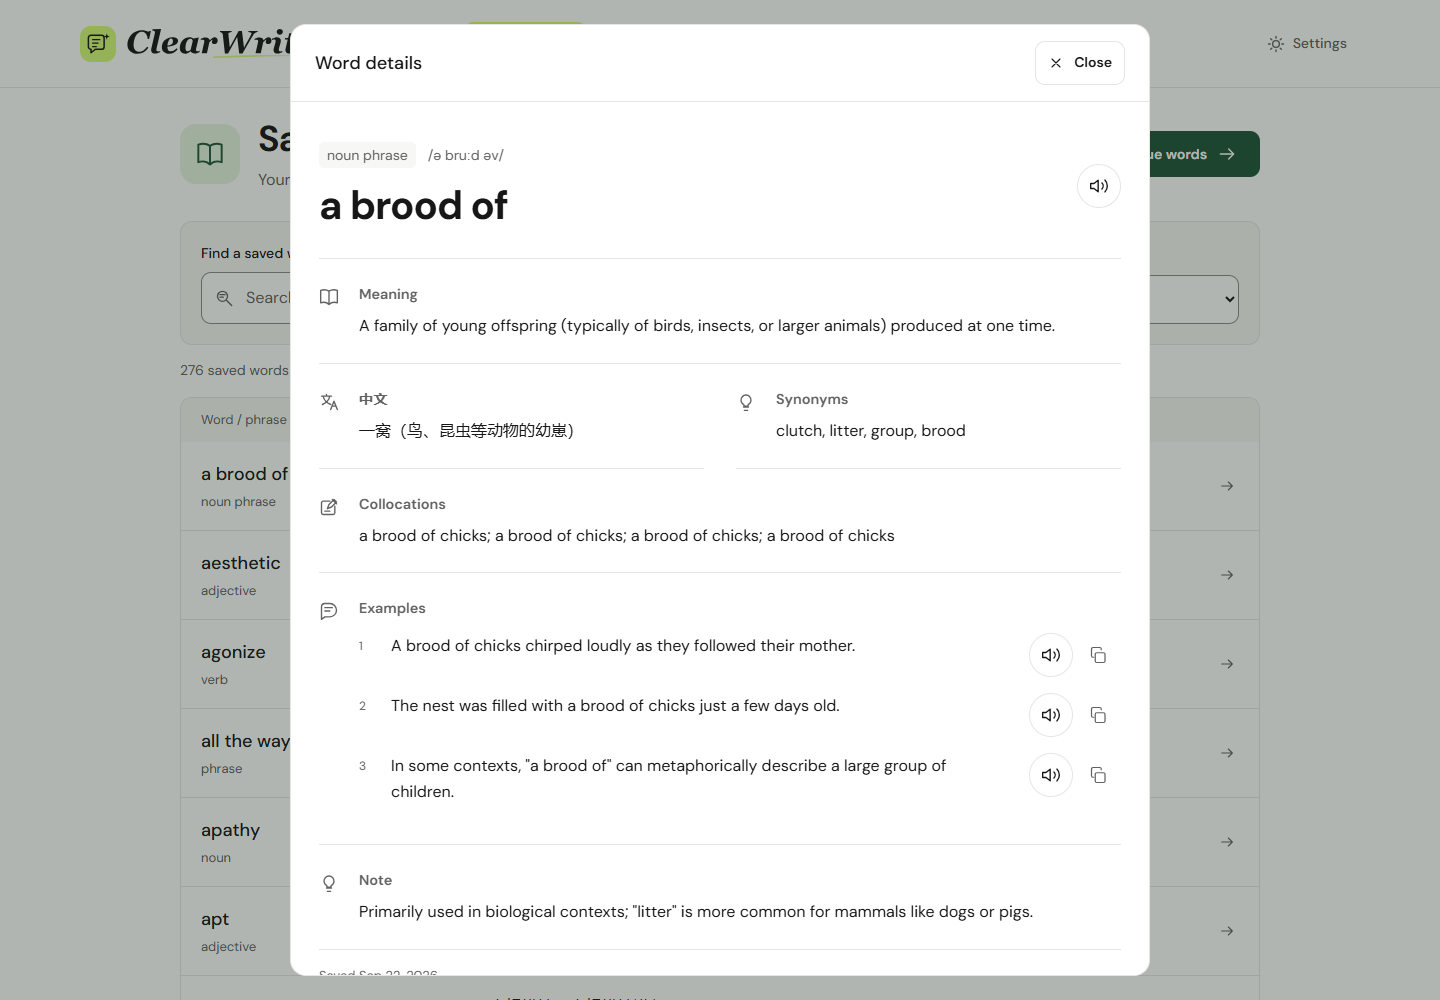
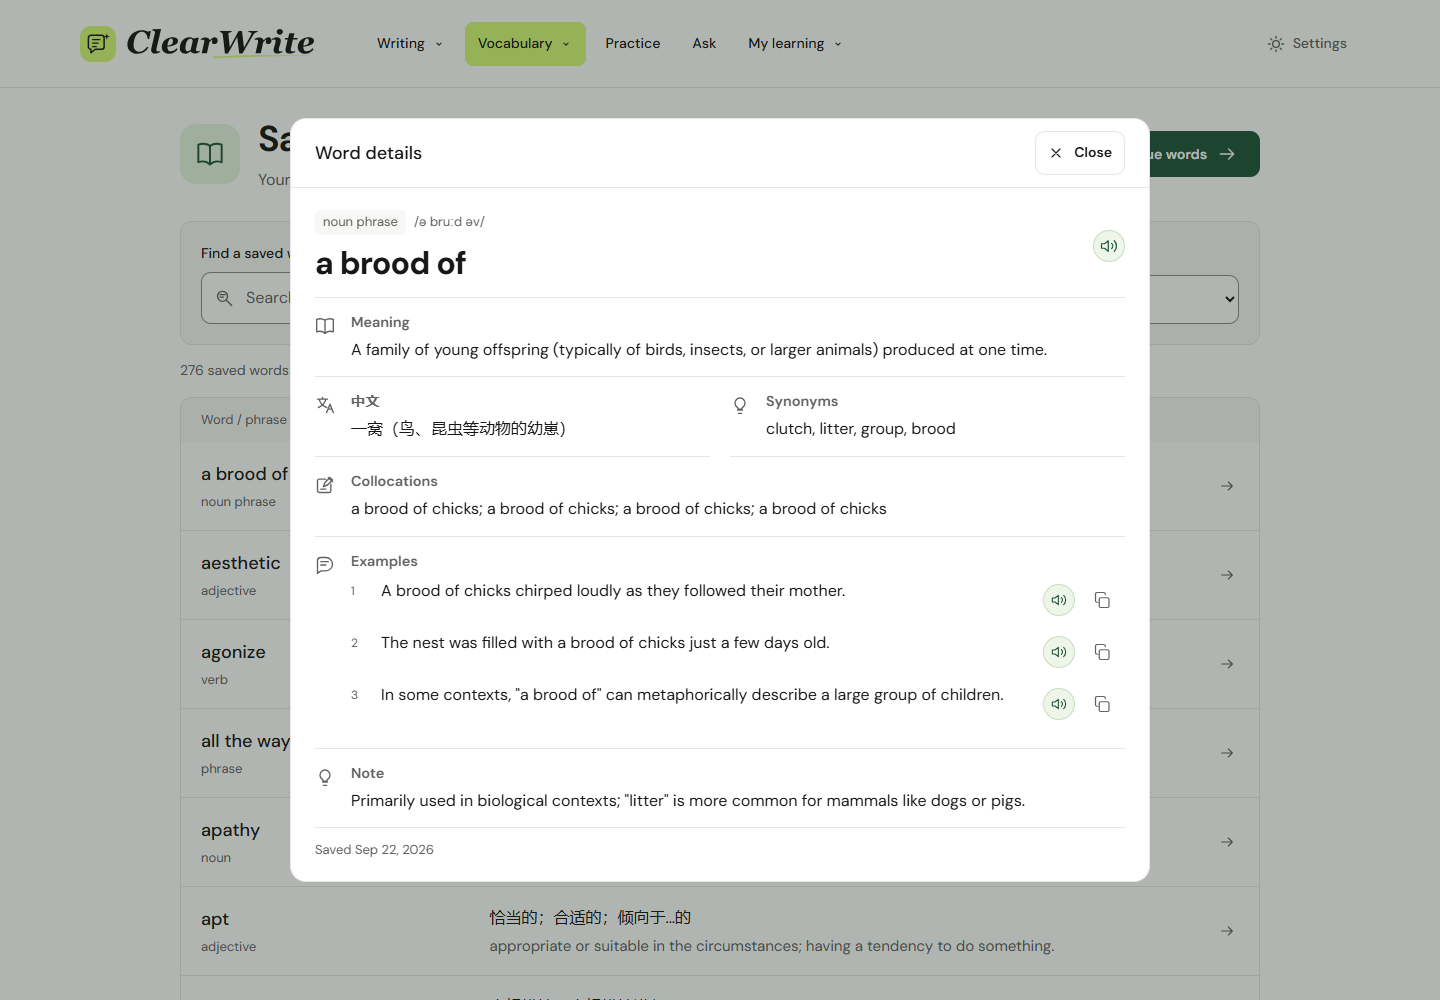
fix(vocabulary): polish saved-word details layout and audio states

diff --git a/apps/web/src/VocabularyLibrary.css b/apps/web/src/VocabularyLibrary.css
@@ -31,18 +31,34 @@
 .saved-word-dialog { width: min(860px, calc(100% - 48px)); max-width: none; max-height: calc(100dvh - 48px); margin: auto; padding: 0; border: 1px solid var(--line); border-radius: 16px; background: var(--paper); color: var(--ink); }
 .saved-word-dialog[open] { display: flex; flex-direction: column; }
 .saved-word-dialog::backdrop { background: rgb(23 35 27 / 34%); }
-.saved-word-dialog-header { display: flex; align-items: center; justify-content: space-between; gap: 16px; flex-shrink: 0; padding: 16px 24px; border-bottom: 1px solid var(--line); }
+.saved-word-dialog-header { display: flex; align-items: center; justify-content: space-between; gap: 16px; flex-shrink: 0; padding: 12px 24px; border-bottom: 1px solid var(--line); }
 .saved-word-dialog-header h2 { margin: 0; font-size: 1.125rem; font-weight: 500; }
 .saved-word-dialog-header .secondary { padding: 8px 12px; min-height: 44px; }
 .saved-word-dialog-header .icon { width: 16px; height: 16px; }
-.saved-word-details { min-height: 0; padding: 24px 28px; overflow-y: auto; overscroll-behavior: contain; }
+.saved-word-details { min-height: 0; padding: 20px 24px; overflow-y: auto; overscroll-behavior: contain; }
 .saved-word-dialog :focus-visible { outline: 2px solid #205539; outline-offset: 3px; }
 .saved-word-details .word-details { margin: 0; }
-.saved-word-details .word-heading { margin-top: 0; }
-.saved-word-memory { border-top: 1px solid var(--line); padding-top: 16px; }
-.saved-word-memory h4 { margin-bottom: 8px; }
+.saved-word-details .word-heading { gap: 16px; padding: 2px 0 14px; margin-top: 0; }
+.saved-word-details .word-heading h3 { font-size: 32px; margin-top: 8px; }
+.saved-word-details .word-heading-meta { gap: 8px; font-size: 13px; }
+.saved-word-details .word-detail-block { gap: 12px; padding: 14px 0; }
+.saved-word-details .word-detail-block h4 { margin: 1px 0 6px; }
+.saved-word-details .word-detail-pair { gap: 20px; }
+.saved-word-details .word-examples li { gap: 10px; margin: 8px 0; }
+/* Compact pronunciation controls keep the focus on the word content. */
+.saved-word-details .audio-btn { width: 32px; height: 32px; min-height: 32px; border: 1px solid #c8dcc0; background: #edf6e9; color: #205539; }
+.saved-word-details .audio-btn:hover:not(:disabled) { border-color: #9bbc8f; background: #dfeeda; }
+.saved-word-details .audio-btn:active:not(:disabled) { background: #d1e5c8; }
+.saved-word-details .audio-btn[aria-busy="true"] { border-color: #205539; background: #205539; color: var(--paper); cursor: progress; }
+.saved-word-details .audio-btn.audio-err { border-color: var(--danger); color: var(--danger); background: #fbefec; }
+.saved-word-details .audio-btn .icon { width: 16px; height: 16px; }
+.saved-word-details .word-heading .audio-btn .icon { width: 18px; height: 18px; }
+.saved-word-details .word-heading > div { min-width: 0; }
+.saved-word-details .example-controls { align-items: center; gap: 6px; }
+.saved-word-memory { border-top: 1px solid var(--line); padding-top: 12px; }
+.saved-word-memory h4 { margin-bottom: 6px; }
 .saved-word-memory p { margin-bottom: 0; }
-.saved-word-date { margin: 16px 0 0; color: var(--muted); font-size: .8125rem; }
+.saved-word-date { margin: 12px 0 0; color: var(--muted); font-size: .8125rem; }
 .vocabulary-library-pagination { display: flex; align-items: center; justify-content: space-between; gap: 16px; margin-top: 20px; color: var(--muted); font-size: .875rem; }
 .vocabulary-library-pagination > div { display: flex; align-items: center; flex-wrap: wrap; gap: 12px; }
 .vocabulary-library-pagination .secondary { margin: 0; padding: 8px 14px; min-height: 44px; }

diff --git a/apps/web/src/App.tsx b/apps/web/src/App.tsx
@@ -2765,10 +2765,11 @@ function AudioButton({
         className={`audio-btn${small ? " audio-btn-sm" : ""}${error ? " audio-err" : ""}`}
         onClick={play}
         disabled={busy}
+        aria-busy={busy}
         aria-label={
           busy ? "Playing…" : reviewPrompt ? "Listen to the English word" : `Read aloud: ${text}`
         }
-        title={error || "Read aloud"}
+        title={busy ? "Playing…" : error || "Read aloud"}
       >
         <Icon name="volume" />
         {reviewPrompt && <span>{busy ? "Playing…" : "Audio hint"}</span>}
